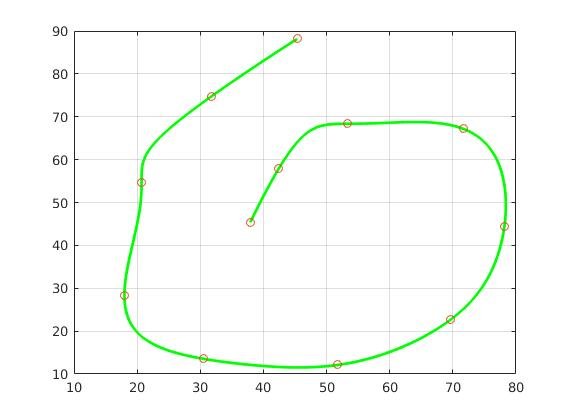
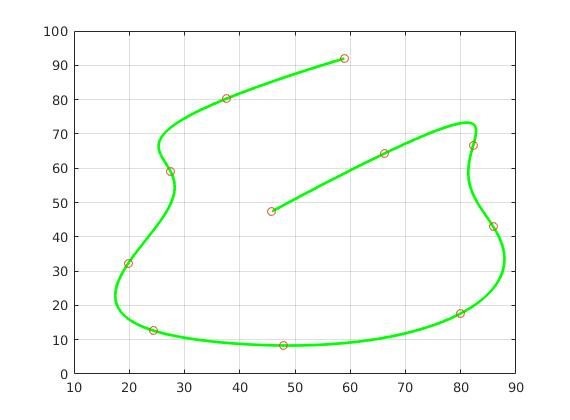
Finish assignment 05, analytic solver with MATLAB.

diff --git a/workspace/assignments/05-trajectory-generation--minimum-snap/MATLAB/src/analyticSolver.m b/workspace/assignments/05-trajectory-generation--minimum-snap/MATLAB/src/analyticSolver.m
@@ -1,0 +1,111 @@
+clc;clear;close all;
+
+% press Enter to terminate waypoint selection:
+path = ginput() * 100.0;
+
+t_order       = 4;              % minimum jerk / minimum snap optimization
+n_order       = 2*t_order - 1;  % order of polynomial trajectory
+K             = size(path,1)-1; % segment number
+N             = (n_order+1);    % coef number of perseg
+
+% time allocation:
+ts = zeros(K, 1);
+% calculate time distribution based on distance between 2 points
+% dist = zeros(K, 1);
+% dist_sum = 0;
+% T = 25;
+% 
+% t_sum = 0;
+% for i = 1:K
+%     dist(i) = sqrt((path(i+1, 1) - path(i, 1))^2 + (path(i+1, 2) - path(i, 2))^2);
+%     dist_sum = dist_sum + dist(i);
+% end
+% for i = 1:(K-1)
+%     ts(i) = dist(i) / dist_sum * T;
+%     t_sum = t_sum + ts(i);
+% end
+% ts(K) = T - t_sum;
+% or you can simply average the time
+for i = 1:K
+    ts(i) = 1.0;
+end
+
+% plan the minimum snap trajectory
+poly_coef_x = MinimumSnapCloseformSolver(path(:, 1), ts, K, t_order);
+poly_coef_y = MinimumSnapCloseformSolver(path(:, 2), ts, K, t_order);
+
+% display the trajectory
+X_n = [];
+Y_n = [];
+k = 1;
+tstep = 0.01;
+for i=0:(K-1)
+    %#####################################################
+    % STEP 3: get the coefficients of i-th segment
+    %#####################################################
+    % 1. get segment index:
+    segment_index = (i*N + 1):((i+1)*N);
+    % 2. extract segment coeffs:
+    Pxi = flipud(poly_coef_x(segment_index));
+    Pyi = flipud(poly_coef_y(segment_index));
+    % 3. calculate planned waypoints:
+    for t = 0:tstep:ts(i+1)
+        X_n(k) = polyval(Pxi, t / ts(i + 1));
+        Y_n(k) = polyval(Pyi, t / ts(i + 1));
+        k = k + 1;
+    end
+end
+
+% visualize the planned trajectory:
+plot(X_n, Y_n ,'Color',[0 1.0 0],'LineWidth',2);
+hold on; grid on;
+scatter(path(1:size(path,1),1),path(1:size(path,1),2));
+
+% minimum snap trajectory generator:
+function poly_coef = MinimumSnapCloseformSolver(waypoints, ts, K, t_order)
+    start_cond = [waypoints(1), 0, 0, 0];
+    end_cond =   [waypoints(end), 0, 0, 0];
+    %#####################################################
+    % STEP 1: compute Q of p'Qp
+    %#####################################################
+    Q = getQ(K, t_order, ts);
+    %#####################################################
+    % STEP 2: compute M
+    %#####################################################
+    M = getM(K, t_order, ts);
+    
+    %#####################################################
+    % STEP 3: compute C
+    %#####################################################
+    C = getC(K, t_order);
+    
+    %#####################################################
+    % STEP 4: solve unconstrained optimization
+    %#####################################################
+    T = M \ C;
+    Q = T' * Q * T;
+    
+    % 4.1 set boundary waypoints (start & end) states
+    D = 2*t_order + (K - 1);
+    N = (K+1)*t_order;
+    
+    d_fixed = zeros(D, 1);
+    for c = 1:t_order
+        d_fixed((c-1)*2 + 1) = start_cond(c);
+        d_fixed((c-1)*2 + 2) = end_cond(c);
+    end
+    % 4.2 set intermediate waypoint positions:
+    for k = 2:K
+        d_fixed(2*t_order + k - 1) = waypoints(k);
+    end
+    
+    % 4.3 solve least squared:
+    Q_ff = Q((D + 1):N, (D + 1):N);
+    Q_fd = Q((D + 1):N, 1:D);
+    d_free = -inv(Q_ff)*Q_fd*d_fixed;
+
+    %#####################################################
+    % STEP 5: restore poly coef
+    %#####################################################
+    poly_coef = T * [d_fixed; d_free];
+end

diff --git a/workspace/assignments/05-trajectory-generation--minimum-snap/MATLAB/src/getM.m b/workspace/assignments/05-trajectory-generation--minimum-snap/MATLAB/src/getM.m
@@ -1,13 +1,60 @@
-function M = getM(n_seg, n_order, ts)
-    M = [];
-    for k = 1:n_seg
-        M_k = [];
-        %#####################################################
-        % STEP 1.1: calculate M_k of the k-th segment 
-        %
-        %
-        %
-        %
-        M = blkdiag(M, M_k);
+function M = getM(K, t_order, ts)
+    % num. of polynomial coeffs:
+    N = 2*t_order;
+        
+    % ###############################################
+    % 1. pre-compute constants used in M construction
+    % ###############################################
+    % 1.1 factorial from derivative
+    M_factorial_k = [];
+    M_factorial_v = [];
+    
+    index = 1;
+    
+    for c = 1:t_order
+        for n = c:N
+            M_factorial_k(index) = (c-1)*N + n - 1;
+            M_factorial_v(index) = factorial(n - 1) / factorial(n - c);
+            
+            index = index + 1;
+        end
     end
+    M_factorial = containers.Map(M_factorial_k, M_factorial_v);
+    
+    % ###############################################
+    % 2. populate M
+    % ###############################################
+    M_i = [];
+    M_j = [];
+    M_v = [];
+    
+    index = 1;
+    c_index = 1;
+        
+    % calculate the start & end states of each trajectory segment:
+    for k = 1:K
+        for c = 1:t_order
+            % current segment start state:
+            M_i(index) = c_index;
+            M_j(index) = (k-1)*N + c;
+            M_v(index) = M_factorial((c-1)*N + c - 1)/(ts(k)^(c - 1));
+            index = index + 1;
+            % move to next constraint:
+            c_index = c_index + 1;
+        end
+        
+        for c = 1:t_order
+            % current segment end state:
+            for n = c:N
+                M_i(index) = c_index;
+                M_j(index) = (k-1)*N + n;
+                M_v(index) = M_factorial((c-1)*N + n - 1)/(ts(k)^(c - 1));
+                index = index + 1;
+            end
+            % move to next constraint:
+            c_index = c_index + 1;
+        end
+    end
+    
+    M = sparse(M_i, M_j, M_v);
 end

diff --git a/workspace/assignments/05-trajectory-generation--minimum-snap/MATLAB/src/getC.m b/workspace/assignments/05-trajectory-generation--minimum-snap/MATLAB/src/getC.m
@@ -1,0 +1,58 @@
+function C = getC(K, t_order)
+    % num. of decision variables:
+    D = (K + 1)*t_order;
+    
+    C_i = [];
+    C_j = [];
+    C_v = [];
+    
+    index = 1;
+    c_index = 1;
+    
+    % ###############################################
+    % 1. select fixed variables
+    % ###############################################
+    for c = 1:t_order
+        % first trajectory segment:
+        C_i(index) = c;
+        C_j(index) = c_index;
+        C_v(index) = 1.0;
+        index = index + 1;
+        
+        % move to next decision variable:
+        c_index = c_index + 1;
+        
+        % last trajectory segment:
+        C_i(index) = (K - 1)*(2*t_order) + t_order + c;
+        C_j(index) = c_index;
+        C_v(index) = 1.0;
+        index = index + 1;
+        
+        % move to next decision variable:
+        c_index = c_index + 1;
+    end
+
+    % ###############################################
+    % 2. select free variables
+    % ###############################################
+    for c = 1:t_order
+        for k = 1:(K - 1)
+            % current trajectory segment end state:
+            C_i(index) = (k - 1)*(2*t_order) + t_order + c;
+            C_j(index) = c_index;
+            C_v(index) = 1.0;
+            index = index + 1;
+        
+            % should equal to next trajectory segment start state:
+            C_i(index) = k*(2*t_order) + c;
+            C_j(index) = c_index;
+            C_v(index) = 1.0;
+            index = index + 1;
+        
+            % move to next decision variable:
+            c_index = c_index + 1;
+        end
+    end
+    
+    C = sparse(C_i, C_j, C_v);
+end

diff --git a/workspace/assignments/05-trajectory-generation--minimum-snap/MATLAB/README.md b/workspace/assignments/05-trajectory-generation--minimum-snap/MATLAB/README.md
@@ -28,10 +28,10 @@
 算法流程如下:
 
 * **Step 1: Minimum Snap Solver**
-    * [Step 1.1: Numeric Solver](https://github.com/AlexGeControl/Motion-Planning-for-Mobile-Robots/blob//workspace/assignments/05-trajectory-generation--minimum-snap/MATLAB/src/numeric-solver.m)
+    * [Step 1.1: Numeric Solver](https://github.com/AlexGeControl/Motion-Planning-for-Mobile-Robots/blob//workspace/assignments/05-trajectory-generation--minimum-snap/MATLAB/src/numericSolver.m)
         * [GetQ](https://github.com/AlexGeControl/Motion-Planning-for-Mobile-Robots/blob/402d2fe622e42f3b64878ce730ef1b179a8a031a/workspace/assignments/05-trajectory-generation--minimum-snap/MATLAB/src/getQ.m)
         * [GetAbeq](https://github.com/AlexGeControl/Motion-Planning-for-Mobile-Robots/blob/402d2fe622e42f3b64878ce730ef1b179a8a031a/workspace/assignments/05-trajectory-generation--minimum-snap/MATLAB/src/getAbeq.m)
-    * [Step 1.2: Analytic Solver](https://github.com/AlexGeControl/Motion-Planning-for-Mobile-Robots/blob/402d2fe622e42f3b64878ce730ef1b179a8a031a/workspace/assignments/05-trajectory-generation--minimum-snap/MATLAB/src/analytic-solver.m)
+    * [Step 1.2: Analytic Solver](https://github.com/AlexGeControl/Motion-Planning-for-Mobile-Robots/blob/402d2fe622e42f3b64878ce730ef1b179a8a031a/workspace/assignments/05-trajectory-generation--minimum-snap/MATLAB/src/analyticSolver.m)
         * [GetM](https://github.com/AlexGeControl/Motion-Planning-for-Mobile-Robots/blob/402d2fe622e42f3b64878ce730ef1b179a8a031a/workspace/assignments/05-trajectory-generation--minimum-snap/MATLAB/src/getM.m)
-        * [GetCt](https://github.com/AlexGeControl/Motion-Planning-for-Mobile-Robots/blob/402d2fe622e42f3b64878ce730ef1b179a8a031a/workspace/assignments/05-trajectory-generation--minimum-snap/MATLAB/src/getCt.m)
+        * [GetC](https://github.com/AlexGeControl/Motion-Planning-for-Mobile-Robots/blob/402d2fe622e42f3b64878ce730ef1b179a8a031a/workspace/assignments/05-trajectory-generation--minimum-snap/MATLAB/src/getC.m)
 ---
